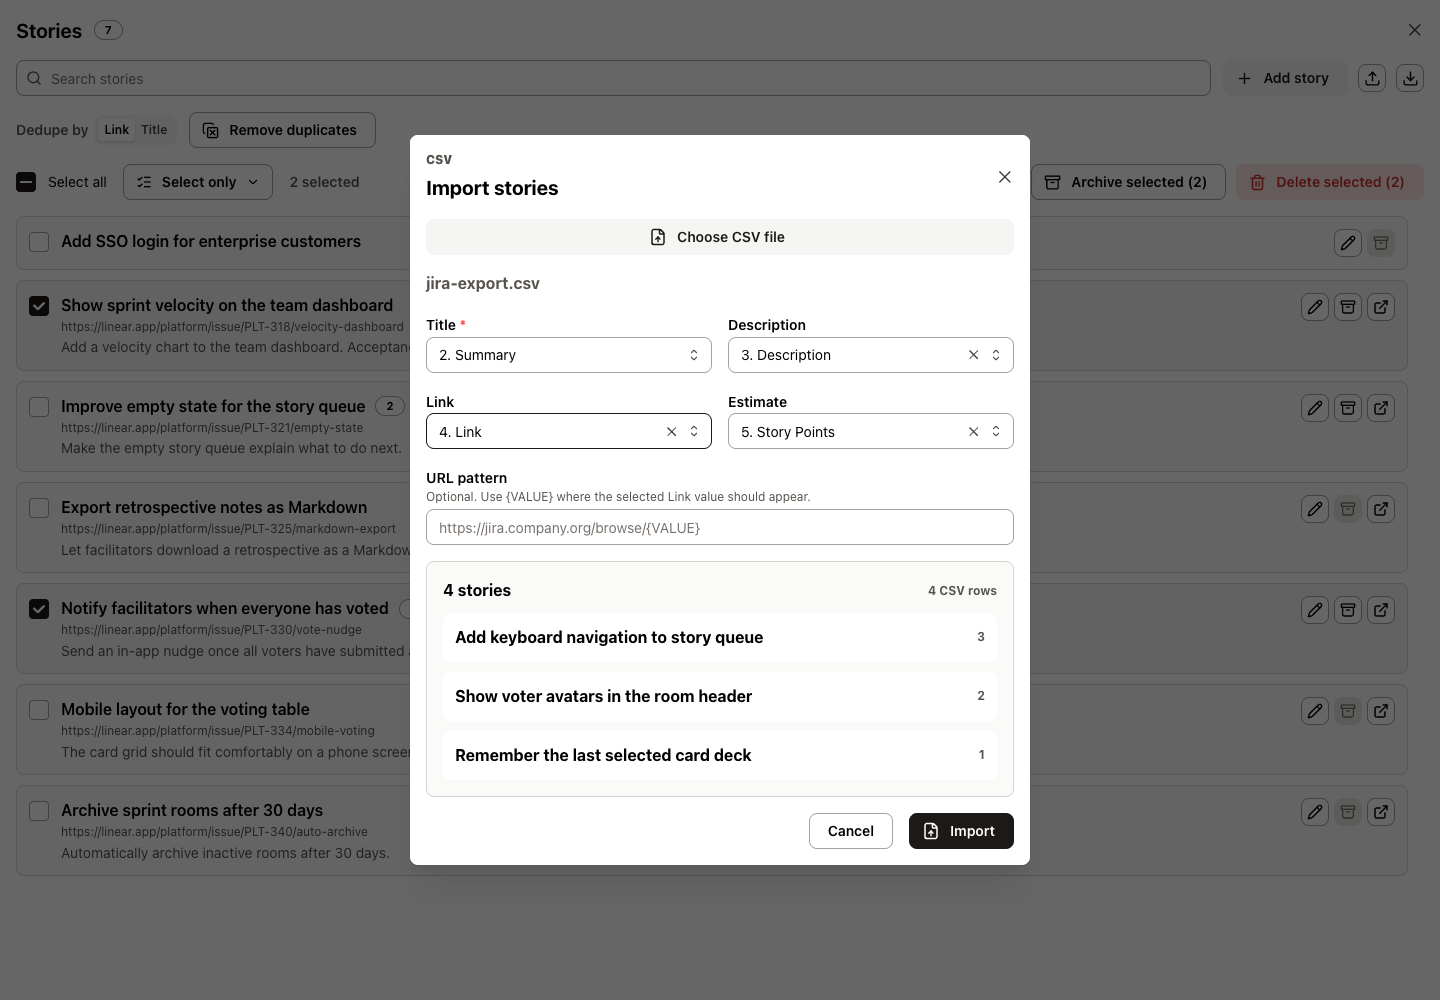
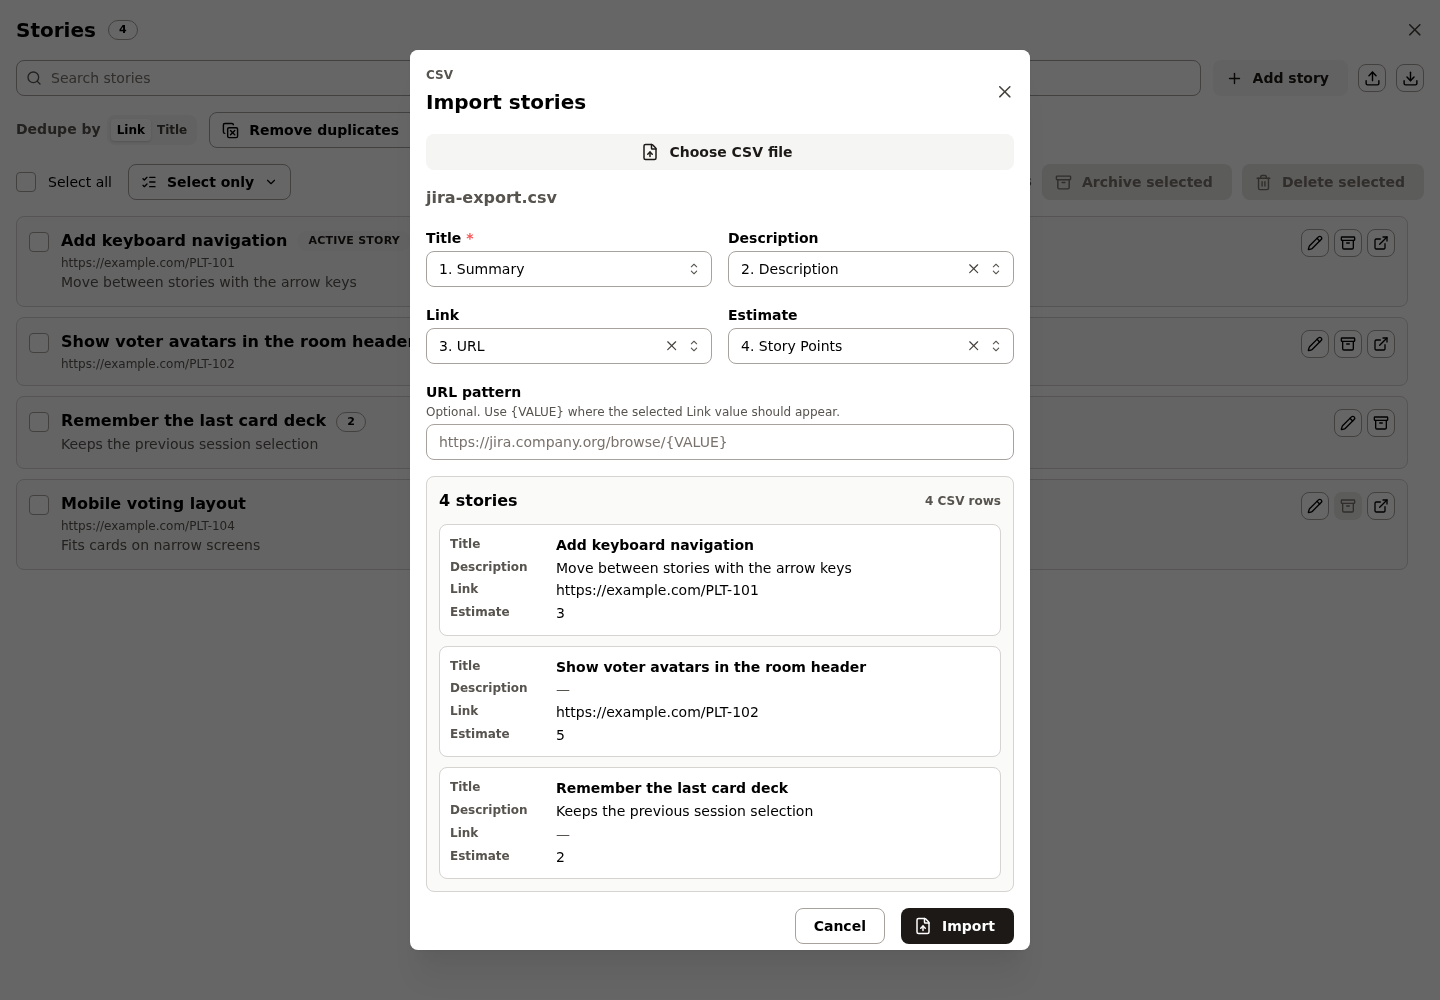
Show all four fields in the CSV import preview
Each preview story now lists title, description, link, and estimate instead of collapsing the optional fields into one value. Missing optional values render as an em dash so the mapping is easy to verify. Refresh the README screenshot.

diff --git a/src/widgets/room-sidebar/ui/ImportIssuesModal.tsx b/src/widgets/room-sidebar/ui/ImportIssuesModal.tsx
@@ -37,6 +37,31 @@ function formatOptionLabel(header: string, index: number, unnamedColumnLabel: st
   return `${index + 1}. ${header || unnamedColumnLabel}`;
 }
 
+type PreviewFieldProps = {
+  label: string;
+  value: string;
+  strong?: boolean;
+};
+
+function PreviewField({ label, value, strong = false }: PreviewFieldProps) {
+  return (
+    <Group gap="xs" align="flex-start" wrap="nowrap">
+      <Text c="dimmed" fz="xs" fw={700} w={96} style={{ flexShrink: 0 }}>
+        {label}
+      </Text>
+      <Text
+        fz="sm"
+        fw={strong ? 700 : 400}
+        c={value ? undefined : "dimmed"}
+        lineClamp={strong ? 2 : 1}
+        style={{ flex: 1, overflowWrap: "anywhere" }}
+      >
+        {value || "—"}
+      </Text>
+    </Group>
+  );
+}
+
 export function ImportIssuesModal({ isOpen, isSaving, onClose, onSubmit }: ImportIssuesModalProps) {
   const { t } = useI18n();
   const [csvData, setCsvData] = useState<CsvData | null>(null);
@@ -201,7 +226,7 @@ export function ImportIssuesModal({ isOpen, isSaving, onClose, onSubmit }: Impor
                 />
               </Stack>
 
-              <Paper withBorder bg="gray.0" p="md">
+              <Paper withBorder bg="gray.0" p="sm">
                 <Stack gap="xs">
                   <Group justify="space-between" gap="sm">
                     <Text fw={700}>{t("common.storiesCount", { count: mappedIssues.length })}</Text>
@@ -209,18 +234,16 @@ export function ImportIssuesModal({ isOpen, isSaving, onClose, onSubmit }: Impor
                       {t("common.csvRows", { count: csvData.rows.length })}
                     </Text>
                   </Group>
-                {previewRows.map((issue, index) => (
-                    <Paper key={`${issue.title}-${index}`} p="sm">
-                      <Group justify="space-between" gap="sm" wrap="nowrap">
-                        <Text fw={700} truncate>
-                          {issue.title}
-                        </Text>
-                        <Text c="dimmed" fz="xs" fw={700} truncate>
-                          {issue.estimate || issue.link || issue.description || t("common.noOptionalFields")}
-                        </Text>
-                      </Group>
+                  {previewRows.map((issue, index) => (
+                    <Paper key={`${issue.title}-${index}`} p="xs" withBorder>
+                      <Stack gap={1}>
+                        <PreviewField label={t("common.title")} value={issue.title} strong />
+                        <PreviewField label={t("common.description")} value={issue.description} />
+                        <PreviewField label={t("common.link")} value={issue.link} />
+                        <PreviewField label={t("common.estimate")} value={issue.estimate} />
+                      </Stack>
                     </Paper>
-                ))}
+                  ))}
                 </Stack>
               </Paper>
             </>

diff --git a/src/shared/i18n/index.tsx b/src/shared/i18n/index.tsx
@@ -80,7 +80,6 @@ const translations: Record<Language, Record<string, TranslationValue>> = {
     "common.description": "Description",
     "common.estimate": "Estimate",
     "common.link": "Link",
-    "common.noOptionalFields": "No optional fields",
     "common.noVote": "No vote",
     "common.range": "Range",
     "common.room": "Room {code}",
@@ -260,7 +259,6 @@ const translations: Record<Language, Record<string, TranslationValue>> = {
     "common.description": "Описание",
     "common.estimate": "Оценка",
     "common.link": "Ссылка",
-    "common.noOptionalFields": "Нет дополнительных полей",
     "common.noVote": "Нет голоса",
     "common.range": "Диапазон",
     "common.room": "Комната {code}",
